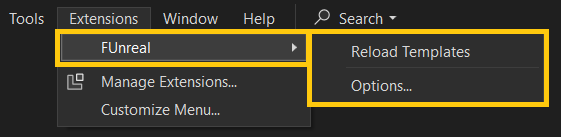
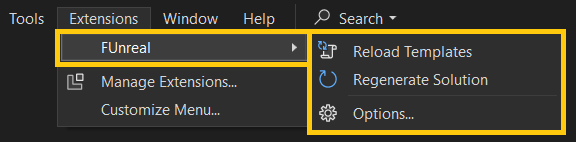
#29 implement extension menu command for executing VS Solution regeneration (shortcut for UBT)

diff --git a/FUnreal/Sources/UI/ExtensionMenu/Controllers/RegenSolutionController.cs b/FUnreal/Sources/UI/ExtensionMenu/Controllers/RegenSolutionController.cs
@@ -1,0 +1,34 @@
+using System.Threading.Tasks;
+
+namespace FUnreal
+{
+    public class RegenSolutionController : AXActionController
+    {
+        private bool _IsRegenerationOnGoing;
+        private FUnrealNotifier _notifier;
+
+        public RegenSolutionController(FUnrealService unrealService, FUnrealVS unrealVS) 
+            : base(unrealService, unrealVS)
+        {
+            _IsRegenerationOnGoing = false;
+            _notifier = new FUnrealNotifier();
+            _notifier.OnSendMessage += (type, context, message) =>
+            {
+                if (type == FUnrealNotifier.MessageType.INFO) _unrealVS.Output.Info(message);
+                else if (type == FUnrealNotifier.MessageType.WARN) _unrealVS.Output.Warn(message);
+                else _unrealVS.Output.Erro(message);
+            };
+        }
+        //NOTE: If regeneration updated VS Solution, VS Reload Project Popup will appear.
+        //      Then FUnrealVS reload project listner will be triggered and project scanning begin (looking for plugins and modules)
+        public override async Task DoActionAsync()
+        {
+            _unrealVS.Output.ForceFocus();
+            if (_IsRegenerationOnGoing) return;
+
+            _IsRegenerationOnGoing = true;
+            _ = await _unrealService.RegenSolutionFilesAsync(_notifier);
+            _IsRegenerationOnGoing = false;
+        }
+    }
+}

diff --git a/FUnreal/Sources/UI/ContextMenu/Common/XDialogLib.cs b/FUnreal/Sources/UI/ContextMenu/Common/XDialogLib.cs
@@ -52,7 +52,8 @@ namespace FUnreal
         public static string Error_ModuleAlreadyExists = "Module already exists at: {0}";
         public static string Error_GameModuleAlreadyExists = "Module already exists: {0}";
         public static string Error_ModuleNotFound = "Module not found: {0}";
-        internal static string Ctx_RegenSolutionFiles = "Regenerating VS Soluton files ...";
+        internal static string Ctx_RegenSolutionFiles = "Regenerating VS Solution files ...";
+        internal static string Ctx_RegenSolutionFilesCompleted = "VS Solution regeneration completed!";
         internal static string Error_TemplateNotFound = "Template not found for ({0}, {1}, {2})";
         internal static string Error_TemplateWrongConfig = "Template configuration error for ({0}, {1}, {2})";
         internal static string Ctx_ConfiguringTemplate = "Configuring template ...";

diff --git a/FUnreal/Sources/Service/FUnrealService.cs b/FUnreal/Sources/Service/FUnrealService.cs
@@ -99,8 +99,6 @@ namespace FUnreal
             return new FUnrealService(engine, uprjFilePath, templates);
         }
 
-       
-
         public FUnrealEngine Engine { get; private set; }
         private IFUnrealBuildTool _engineUbt;
         private string _engineMajorVer;
@@ -167,6 +165,12 @@ namespace FUnreal
         {
             await _projectModuleFactory.ScanEmptyFoldersAsync(_projectModel);
             return true;
+        }
+
+
+        public async Task<bool> RegenSolutionFilesAsync(FUnrealNotifier notifier)
+        {
+            return await FUnrealServiceTasks.Project_RegenSolutionFilesAsync(GetUProject(), _engineUbt, notifier);
         }
 
 

diff --git a/FUnreal/Sources/UI/ExtensionMenu/ExtensionMenuManager.cs b/FUnreal/Sources/UI/ExtensionMenu/ExtensionMenuManager.cs
@@ -6,6 +6,7 @@
         {
             ReloadExtensionMenuCmd.Instance.Controller = new ReloadTemplatesController(unrealService, unrealVS);
             OpenOptionsExtensionMenuCmd.Instance.Controller = new OpenOptionsController(unrealService, unrealVS);
+            RegenSolutionMenuCmd.Instance.Controller = new RegenSolutionController(unrealService, unrealVS);
         }
     }
 }

diff --git a/FUnreal/Sources/UI/ExtensionMenu/Commands/RegenSolutionMenuCmd.cs b/FUnreal/Sources/UI/ExtensionMenu/Commands/RegenSolutionMenuCmd.cs
@@ -1,0 +1,11 @@
+using Community.VisualStudio.Toolkit;
+using System;
+
+namespace FUnreal
+{
+    [Command(ExtensionMenuVsctSymbols.ExtensionMenuGuid, ExtensionMenuVsctSymbols.RegenSolutionCmd)]
+    public class RegenSolutionMenuCmd : XActionCmd<RegenSolutionMenuCmd>
+    {
+
+    }
+}

diff --git a/FUnreal/Sources/Service/FUnrealServiceTasks.cs b/FUnreal/Sources/Service/FUnrealServiceTasks.cs
@@ -292,6 +292,7 @@ namespace FUnreal
                 notifier.Erro(XDialogLib.Ctx_RegenSolutionFiles, ubtResult.StdOut);
                 return false;
             }
+            notifier.Info(XDialogLib.Ctx_RegenSolutionFilesCompleted);
             return true;
         }
 

diff --git a/FUnreal/Sources/UI/ExtensionMenu/ExtensionMenuVsctSymbols.cs b/FUnreal/Sources/UI/ExtensionMenu/ExtensionMenuVsctSymbols.cs
@@ -6,5 +6,7 @@
 
         public const int ReloadTemplatesCmd = 0x0001;
         public const int OpenOptionsCmd     = 0x0002;
+        public const int RegenSolutionCmd   = 0x0003;
+        
     }
 }

diff --git a/README.md b/README.md
@@ -61,7 +61,8 @@ This `FUnreal` menu is located on the the main VS Toolbar under `Extensions` men
 ![FUnreal Extensions Menu](./docs/images/extensions-menu.png)
 
 From there you can:
-- Force reloading templates (in case you change your custom template on disk)
+- Force reloading templates (in case you change your custom template configuration on disk)
+- Regenerating VS Solution files on demand (basically a shortcut for running UBT from within VS IDE)
 - Access options page, where you can configure the extension (e.g for tuning template configuration)
 
 > More info about `FUnreal` options and custom templates configuration can be found at [this page](docs/TEMPLATES.md).
